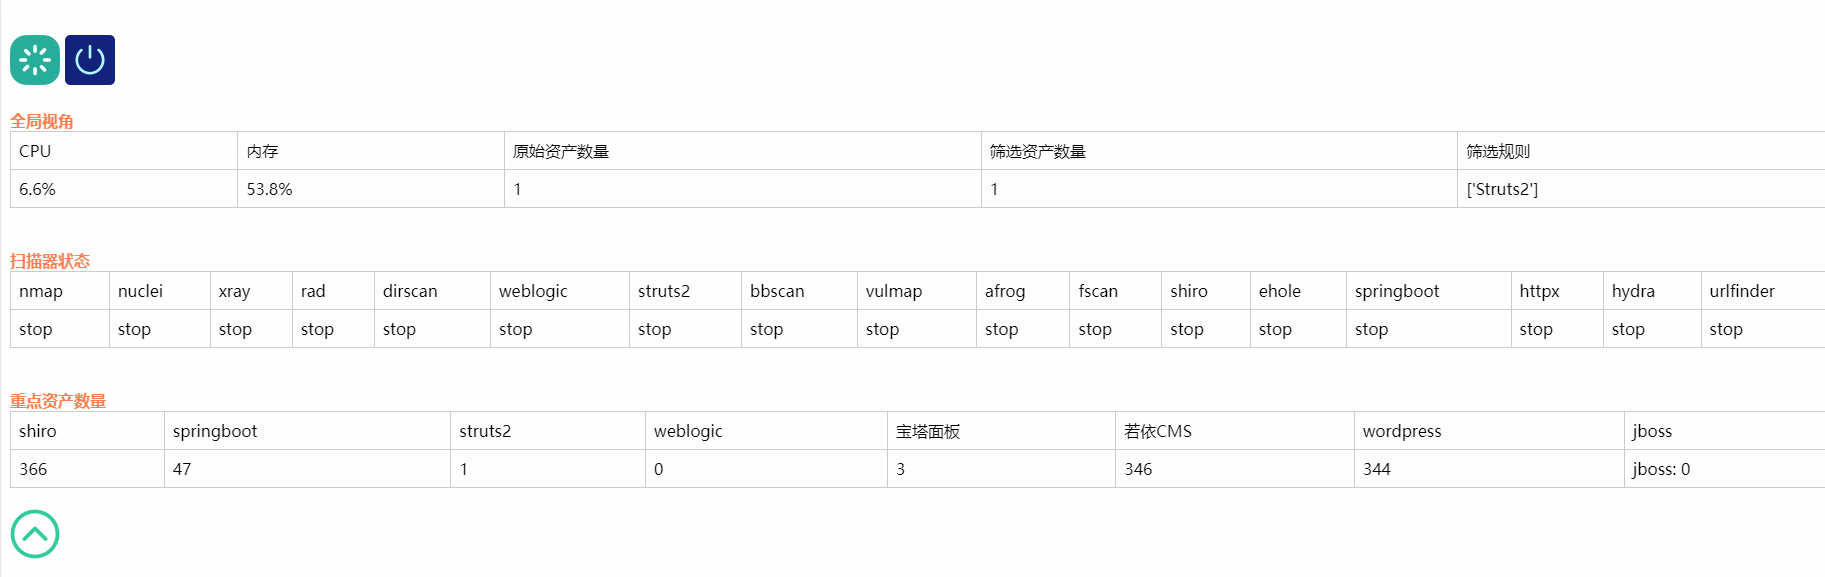
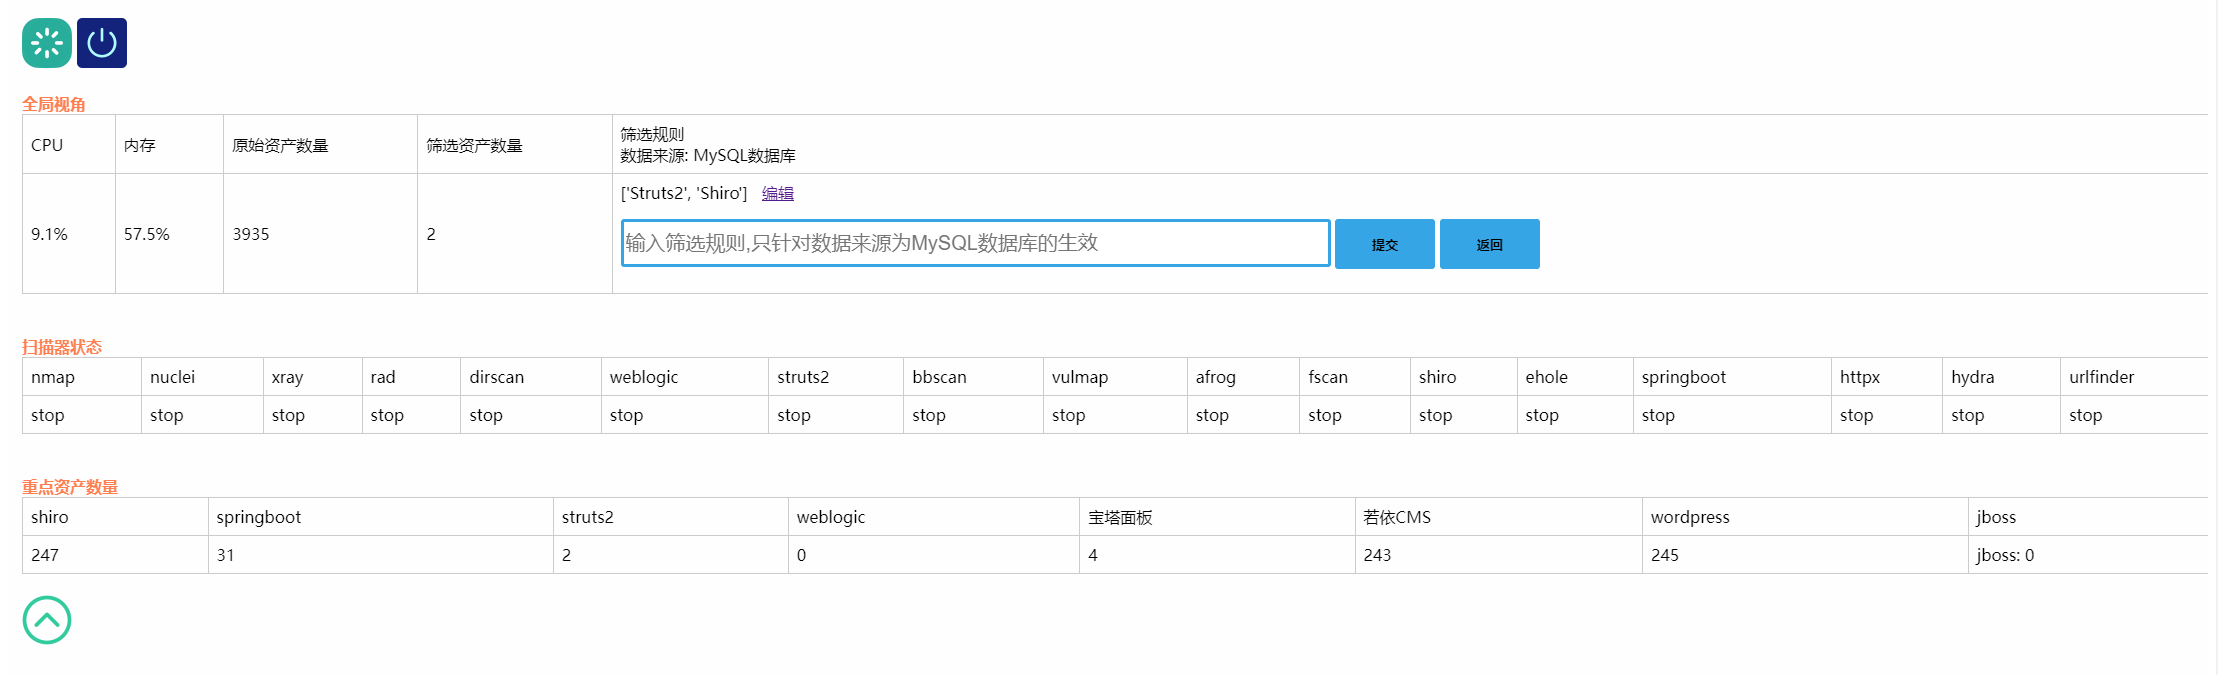
新增重点资产识别前端新增筛选规则功能

diff --git a/templates/index.html b/templates/index.html
@@ -16,24 +16,36 @@
 	<table border="1">
 		<tr>
 			<td>
-				<img src="{{ url_for('static', filename='image/shuaxin.png') }}" width="50" height="50" style="cursor: pointer;" onclick="fanhui()">&nbsp;&nbsp;
-				<img src="{{ url_for('static', filename='image/mainsuoding.png') }}" width="50" height="50" style="cursor: pointer;" onclick="stopbutton()">&nbsp;&nbsp;
-				<img src="{{ url_for('static', filename='image/mainjiesuo.png') }}" width="50" height="50" style="cursor: pointer;" onclick="startbutton()">&nbsp;&nbsp;
-				<img src="{{ url_for('static', filename='image/maindns.png') }}" width="50" height="50" style="cursor: pointer;" onclick="ceyednsfunc()">&nbsp;&nbsp;
-				<img src="{{ url_for('static', filename='image/mainhttp.png') }}" width="50" height="50" style="cursor: pointer;" onclick="ceyehttpfunc()">&nbsp;&nbsp;
-				<img src="{{ url_for('static', filename='image/reportzhenghe.png') }}" width="50" height="50" style="cursor: pointer;" onclick="reporttotalfunc()">&nbsp;&nbsp;
-				<img src="{{ url_for('static', filename='image/mainyulanexcel.png') }}" width="50" height="50" style="cursor: pointer;" onclick="total_report_yulan_func()">&nbsp;&nbsp;
-				<img src="{{ url_for('static', filename='image/maindownloadreport.png') }}" width="50" height="50" style="cursor: pointer;" onclick="reportdownloadfunc()">&nbsp;&nbsp;
-				<img src="{{ url_for('static', filename='image/mainsystemoper.png') }}" width="50" height="50" style="cursor: pointer;" onclick="openModal()">&nbsp;&nbsp;
-				<img src="{{ url_for('static', filename='image/stopservice.png') }}" width="50" height="50" style="cursor: pointer;" onclick="signoutfunc()">&nbsp;&nbsp;
+				<img src="{{ url_for('static', filename='image/shuaxin.png') }}" width="50" height="50"
+					style="cursor: pointer;" onclick="fanhui()">&nbsp;&nbsp;
+				<img src="{{ url_for('static', filename='image/mainsuoding.png') }}" width="50" height="50"
+					style="cursor: pointer;" onclick="stopbutton()">&nbsp;&nbsp;
+				<img src="{{ url_for('static', filename='image/mainjiesuo.png') }}" width="50" height="50"
+					style="cursor: pointer;" onclick="startbutton()">&nbsp;&nbsp;
+				<img src="{{ url_for('static', filename='image/maindns.png') }}" width="50" height="50"
+					style="cursor: pointer;" onclick="ceyednsfunc()">&nbsp;&nbsp;
+				<img src="{{ url_for('static', filename='image/mainhttp.png') }}" width="50" height="50"
+					style="cursor: pointer;" onclick="ceyehttpfunc()">&nbsp;&nbsp;
+				<img src="{{ url_for('static', filename='image/reportzhenghe.png') }}" width="50" height="50"
+					style="cursor: pointer;" onclick="reporttotalfunc()">&nbsp;&nbsp;
+				<img src="{{ url_for('static', filename='image/mainyulanexcel.png') }}" width="50" height="50"
+					style="cursor: pointer;" onclick="total_report_yulan_func()">&nbsp;&nbsp;
+				<img src="{{ url_for('static', filename='image/maindownloadreport.png') }}" width="50" height="50"
+					style="cursor: pointer;" onclick="reportdownloadfunc()">&nbsp;&nbsp;
+				<img src="{{ url_for('static', filename='image/mainsystemoper.png') }}" width="50" height="50"
+					style="cursor: pointer;" onclick="openModal()">&nbsp;&nbsp;
+				<img src="{{ url_for('static', filename='image/stopservice.png') }}" width="50" height="50"
+					style="cursor: pointer;" onclick="signoutfunc()">&nbsp;&nbsp;
 			</td>
 		</tr>
 	</table>
 
 	<div id="modal" class="modal">
 		<div class="modal-content">
-			<img src="{{ url_for('static', filename='image/restart.png') }}" width="50" height="50" style="cursor: pointer;" onclick="restart_service_func()">
-			<img src="{{ url_for('static', filename='image/stopservice.png') }}" width="50" height="50" style="cursor: pointer;" onclick="stopbackservicefunc()">
+			<img src="{{ url_for('static', filename='image/restart.png') }}" width="50" height="50"
+				style="cursor: pointer;" onclick="restart_service_func()">
+			<img src="{{ url_for('static', filename='image/stopservice.png') }}" width="50" height="50"
+				style="cursor: pointer;" onclick="stopbackservicefunc()">
 			<br><br>
 			<strong style="color:coral">全局视角</strong>
 			<table border="1">
@@ -42,14 +54,27 @@
 					<td>内存</td>
 					<td>原始资产数量</td>
 					<td>筛选资产数量</td>
-					<td>筛选规则</td>
+					<td>
+						筛选规则<br>
+						<span id="spp31"></span>
+
+					</td>
 				</tr>
 				<tr>
 					<td><span id="spp23"></span></td>
 					<td><span id="spp24"></span></td>
 					<td><span id="spp14"></span></td>
 					<td><span id="spp27"></span></td>
-					<td><span id="spp26"></span></td>
+
+					<td>
+						<span id="spp26"></span>&nbsp;&nbsp;
+						<a href="###" onclick="shuaixuanrule()">编辑</a>
+						<p style="display: none;" id="idp1">
+							<input type="text"placeholder="输入筛选规则,只针对数据来源为MySQL数据库的生效" id="rule_input_id1">
+							<input type="button" value="提交" onclick="add_rule_func()">
+							<input type="button" value="返回" onclick="fanhuishuaixuanrule()">
+						</p>
+					</td>
 				</tr>
 			</table>
 			<br><br>
@@ -120,7 +145,8 @@
 					<td><span id="spp25"></span></td>
 				</tr>
 			</table><br>
-			<img src="{{ url_for('static', filename='image/zhedie.png') }}" width="50" height="50" style="cursor: pointer;" onclick="closeModal()">
+			<img src="{{ url_for('static', filename='image/zhedie.png') }}" width="50" height="50"
+				style="cursor: pointer;" onclick="closeModal()">
 		</div>
 	</div>
 

diff --git a/static/js/common.js b/static/js/common.js
@@ -1045,6 +1045,7 @@ function openModal() {
             document.getElementById("spp28").innerHTML = info.springbootstatus;
             document.getElementById("spp29").innerHTML = info.hydrastatus;
             document.getElementById("spp30").innerHTML = info.urlfinderstatus;
+            document.getElementById("spp31").innerHTML = info.key_asset_rule_origin;
         })
 
 }
@@ -1439,6 +1440,44 @@ function stopbackservicefunc() {
         // 关闭所有服务nginx会返回502
         error: function () {
             alert('内部出错')
+        },
+        complete: function () {
+
+        }
+    })
+}
+
+
+// 弹出编辑筛选规则页面
+function shuaixuanrule() {
+    var idp1 = document.getElementById("idp1");
+    idp1.style.display = "block";
+
+}
+
+// 隐藏编辑筛选规则页面
+function fanhuishuaixuanrule() {
+    var idp1 = document.getElementById("idp1");
+    idp1.style.display = "none";
+
+}
+
+
+// 新增筛选规则
+function add_rule_func() {
+    var rule = document.getElementById("rule_input_id1").value;
+    $.ajax({
+        url: '/add_point_rule_interface/',
+        method: 'POST',
+        data: {
+            rule: rule
+        },
+        success: function (info) {
+            alert(info.result_rule)
+        },
+        
+        error: function (info) {
+            alert("内部出错")
         },
         complete: function () {
 

diff --git a/scan_main_web.py b/scan_main_web.py
@@ -35,9 +35,11 @@ from config import struts2_rule
 from config import WordPress_rule
 from config import jboss_rule
 from config import finger_list
-
+from config  import rule_options
+from config import dict
+from basic import select_rule
 import psutil
-
+import pymysql
 
 app = Flask(__name__,template_folder='./templates') 
 app.secret_key = "DragonFire"
@@ -405,7 +407,14 @@ def systemmanagement():
         memory_percent = mem.percent  
 
         # 资产规则
-        key_asset_rule = str(finger_list)
+        if int(rule_options) == 1:
+            key_asset_rule = str(finger_list)
+            key_asset_rule_origin = '数据来源: 配置文件'
+        elif int(rule_options) == 2:
+            key_asset_rule = select_rule()
+            key_asset_rule_origin = '数据来源: MySQL数据库'
+        else:
+            key_asset_rule = ['参数只能为0/1']
 
         # 当前自查数量
         url_file_current_num = os.popen('bash ./finger.sh current_url_file_num').read()
@@ -440,7 +449,8 @@ def systemmanagement():
             "current_key_asset_num":str(url_file_current_num),
             "springbootstatus":springbootstatus,
             "hydrastatus":hydrastatus,
-            "urlfinderstatus":urlfinderstatus
+            "urlfinderstatus":urlfinderstatus,
+            "key_asset_rule_origin":key_asset_rule_origin
         }
         return jsonify(message_json)
     else:
@@ -1645,7 +1655,7 @@ def stopbackserviceinterface():
     else:
         return render_template('login.html')
     
-
+# 确认关闭后端所有服务
 @app.route("/confirm_stop_service/",methods=['post'])
 def confirm_stop_service():
     user = session.get('username')
@@ -1667,6 +1677,37 @@ def confirm_stop_service():
         return render_template('login.html')
 
     
+
+# 识别重点资产中新增筛选规则接口
+@app.route("/add_point_rule_interface/",methods=['post'])
+def add_point_rule_interface():
+    user = session.get('username')
+    rule = request.form['rule']
+    if str(user) == main_username:
+        db= pymysql.connect(host=dict['ip'],user=dict['username'],  
+        password=dict['password'],db=dict['dbname'],port=dict['portnum']) 
+        cur = db.cursor()
+        
+        # 判断数据库中是否存在传入的数据
+        sql_select = "select rule FROM rule_table where rule = '%s' "%(rule)
+        cur.execute(sql_select)
+        result = cur.fetchone()
+        if result:
+            result_rule = rule+" "+"规则已存在不要重复添加"
+        else:
+            sql_insert = "insert into rule_table(rule)  values('%s')" %(rule)
+            cur.execute(sql_insert)  
+            db.commit()
+            result_rule = rule+" "+"规则已添加成功"
+        message_json = {
+            "result_rule":result_rule
+        }
+
+        return jsonify(message_json)
+    
+    else:
+        return render_template('login.html')
+
 
 
 

diff --git a/config.py b/config.py
@@ -1,10 +1,10 @@
 #shodan key配置
-shodankey = ""
+shodankey = "5wdqqD7mCbWQdehFqWhk5aKVK0OtwR0Z"
 
 #fofa key 配置
-fofaemail = ""
-fofakey = ""
-fofanum = "100"
+fofaemail = "weakchicken@qq.com"
+fofakey = "2aa095c6c28f3d511559282f8caa7a93"
+fofanum = "10000"
 
 #命令行查询入口
 #switch = 0 单个扫描
@@ -24,33 +24,42 @@ hotspot = ["移动数据上网公共出口","中国电信北京研究院"]
 datacenter = ["公司","数据中心"]
 
 
-#高德地图API列表(可添加多个key))
-amap_key_list = ["","",""]
-
+#高德地图API列表(可添加多个key)
+amap_key_list = ["2c0f28df8ad2748d51f49d8a075c6c88","7b9b96ca1f7df413f999ebd7f08577e6"]
 
 # ceye_key配置
-ceye_key = ""
+ceye_key = "1c9ca5b4d4eebd74f3b77675c919005b"
+
 
 #判断直接扫描URL还是通过调用OTX接口查询的历史URL作为扫描目标
 #history_switch = 1  调用OTX查询历史URL
 #history_switch = 0  用户输入URL
 history_switch = 0
 
+
 #MySQL数据库配置
 dict = {
-    "ip":"","username":"","password":"","dbname":"","portnum": 3306
+    "ip":"127.0.0.1","username":"admin","password":"admin@123","dbname":"vuln_scan_database","portnum": 3306
 }
 
+
+
 #主系统账号密码配置选项
-main_username = ""
-main_password = ""
+main_username = "mainadmin"
+main_password = "mainadmin"
 
 #子系统账号密码配置选项
-sub_username = ""
-sub_password = ""
+sub_username = "subadmin"
+sub_password = "subadmin"
+
 
 #重点资产提取，列表里配置多个关键字
-finger_list = ["Shiro","spring-boot","Weblogic","宝塔-BT","若依","Struts2","WordPress"]
+finger_list = ["spring-boot"]
+
+# 重点资产提取启用配置文件或者MySQL数据库
+# 1:配置文件
+# 2:MySQL数据库
+rule_options = 2
 
 
 # 资产管理-重点资产数量展示，列表里只填一个关键字

diff --git a/basic.py b/basic.py
@@ -48,6 +48,11 @@ import tldextract
 # 指纹自定义列表
 from config import finger_list
 
+# MySQL操作模块
+import pymysql
+from config import dict
+from config  import rule_options
+
 
 
 # IP基础信息端口查询通过fofa+shodan
@@ -477,10 +482,20 @@ def shiro_scan():
 def key_point_tiqu():
     # 提取通过自定义列表过滤出的目标，并提取这些目标的关键字作为字典，存入列表中
     filter_list_result = []
+   
+    # 配置文件或者MySQL数据库
+    if int(rule_options) == 1:
+        key_rule_list = str(finger_list)
+    elif int(rule_options) == 2:
+        key_rule_list = select_rule()
+    else:
+        key_rule_list = ['参数只能为0/1']
+
     try:
-        for i in finger_list:
+        for i in key_rule_list:
             result = os.popen('bash /TIP/info_scan/finger.sh finger_filter_shell'+' '+i).read()
             filter_list_result.append(result)
+    
     except Exception as e:
         print("捕获到异常:", e)
 
@@ -698,3 +713,23 @@ def start_hydra_lib(part):
             print("捕获到异常:", e)
     else:
         print("接收的参数为1-5")
+
+
+
+# 重点资产中筛选规则查询
+def select_rule():
+    try:
+        db= pymysql.connect(host=dict['ip'],user=dict['username'],  
+        password=dict['password'],db=dict['dbname'],port=dict['portnum']) 
+        cur = db.cursor()
+        sql="select rule FROM rule_table"
+        cur.execute(sql)
+        data = cur.fetchall()
+        list_data = list(data)
+        list_result = []
+        for i in list_data:
+            list_result.append(i[0])
+    except:
+        list_result = ['MySQL连接失败']
+
+    return list_result
